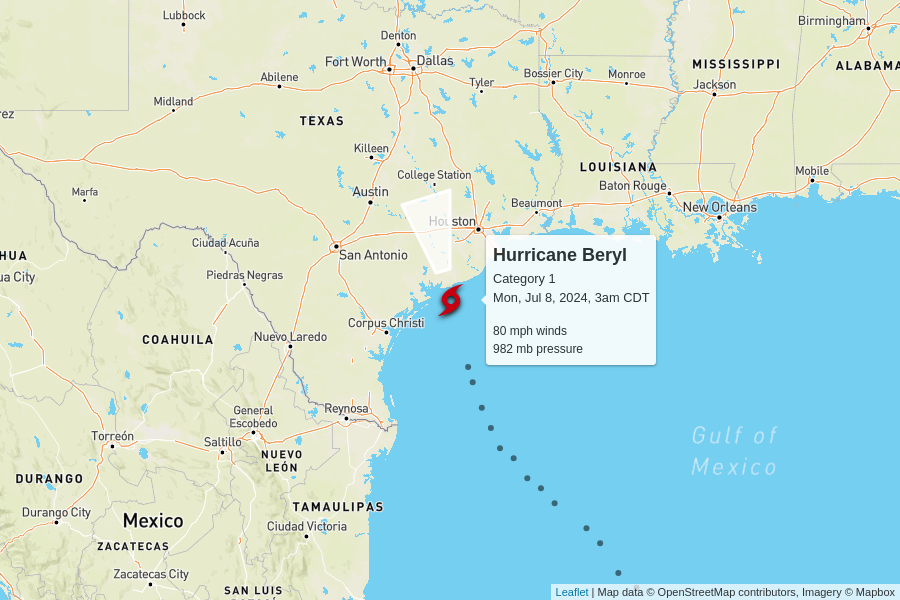
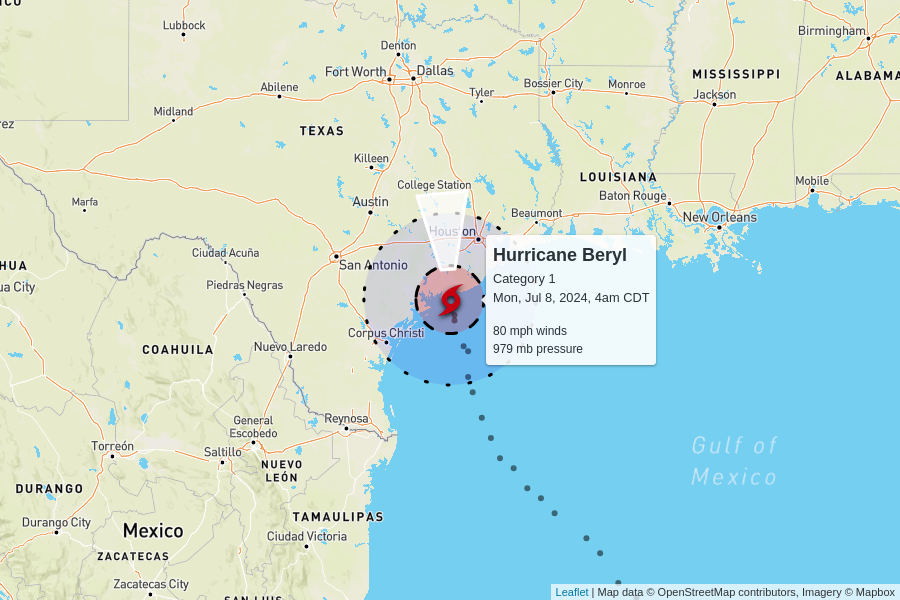
automatic update

diff --git a/docs/index.html b/docs/index.html
@@ -102,7 +102,7 @@
         <td colspan="6" class="storm category-1" >
           <h2>
             Hurricane Beryl - Category 1
-            <p class="updated">last updated <span data-time>2024-07-08T08:00:00.000Z</span></p>
+            <p class="updated">last updated <span data-time>2024-07-08T09:00:00.000Z</span></p>
           </h2>
         </td>
       </tr>
@@ -118,11 +118,11 @@
       <tr>
         <td class="spacer"></td>
         <td>80 mph<br>0 mph since last update</td>
-        <td>982 mb<br>0 mb since last update</td>
+        <td>979 mb<br>-3 mb since last update</td>
         <td>
-          10 mph to the north-northwest
+          12 mph to the north
           <br/>
-          <span style="display: inline-block; font-size: 1.5em; transform: rotate(345deg);">↑</span>
+          <span style="display: inline-block; font-size: 1.5em; transform: rotate(355deg);">↑</span>
         </td>
         <td><a href="https://raw.githubusercontent.com/mgwalker/atlantic-hurricanes/main/data/csv/AL022024.csv">AL022024.csv</a></td>
         <td><a href="https://www.nhc.noaa.gov/archive/2024/BERYL.shtml?">NHC advisories</a></td>
